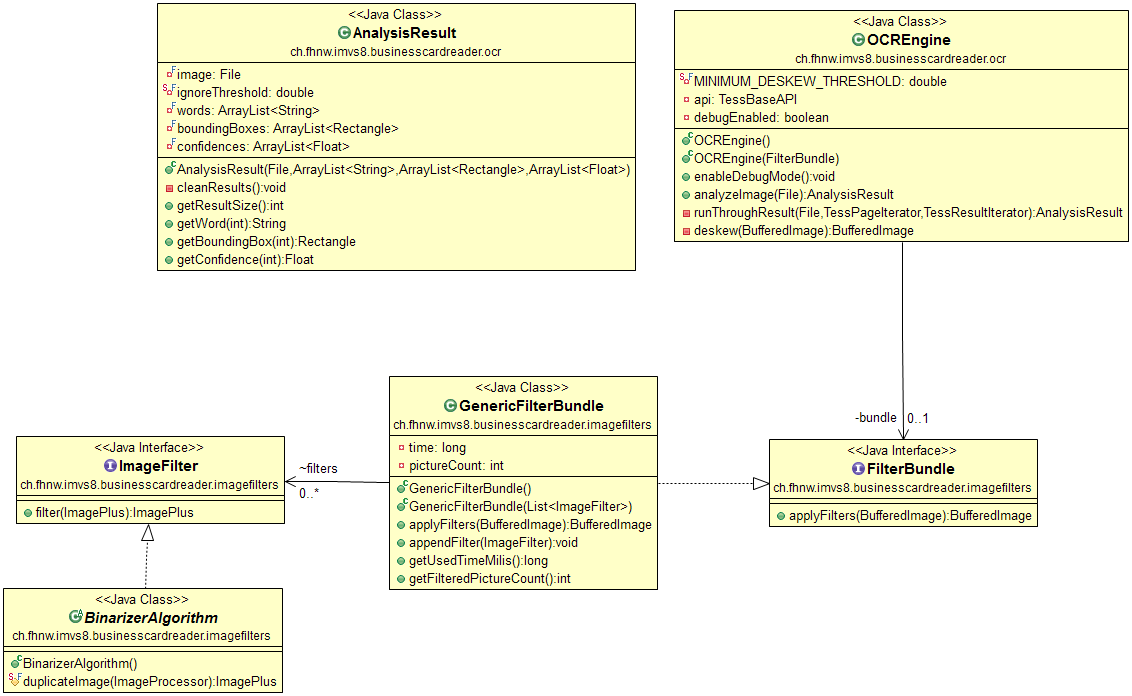
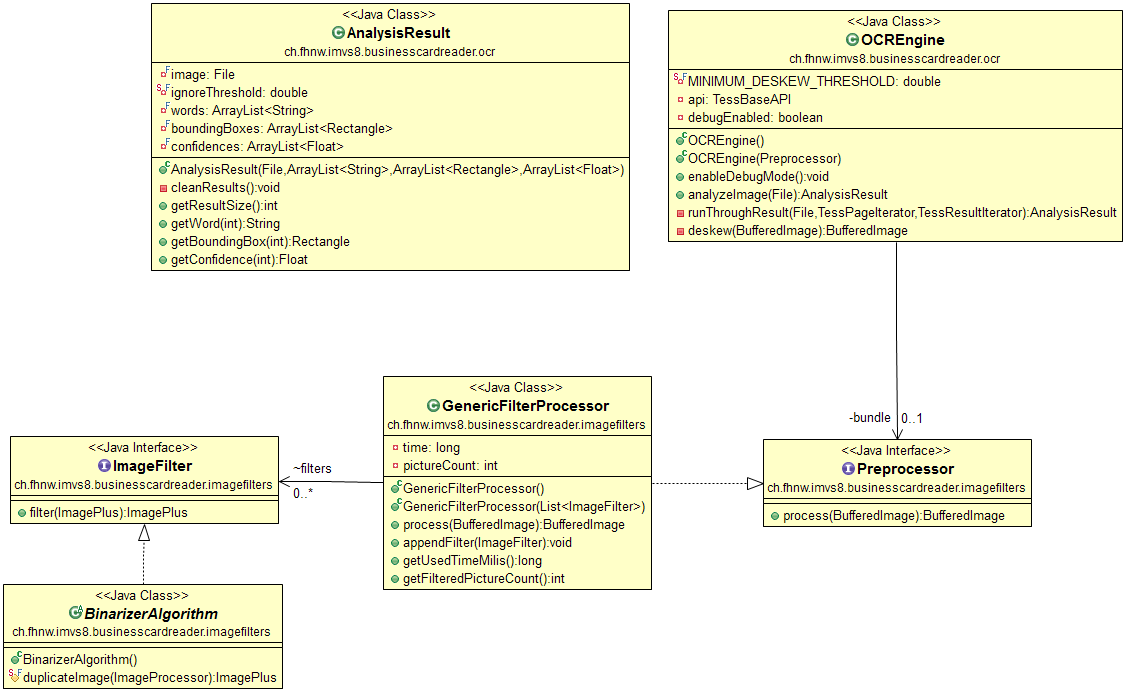
even more refactoring

diff --git a/TesstTest2/src/ch/fhnw/imvs8/businesscardreader/imagefilters/RGBProcessor.java b/TesstTest2/src/ch/fhnw/imvs8/businesscardreader/imagefilters/RGBProcessor.java
@@ -15,10 +15,10 @@ import java.util.List;
  * @author Jon
  * 
  */
-public class RGBFilterBundle implements Preprocessor {
+public class RGBProcessor implements Preprocessor {
 	private List<ImageFilter> channelFilters;
 
-	public RGBFilterBundle() {
+	public RGBProcessor() {
 		channelFilters = new ArrayList<>(2);
 		// filters.add(new LightFilter());
 		channelFilters.add(new AutoBinaryFilter());

diff --git a/TesstTest2/test/ch/fhnw/imvs8/businesscardreader/imagefilters/RGBFilterTest.java b/TesstTest2/test/ch/fhnw/imvs8/businesscardreader/imagefilters/RGBFilterTest.java
@@ -25,7 +25,7 @@ public class RGBFilterTest {
 			BufferedImage image = ImageIO.read(new FileInputStream(new File(
 					colorImg)));
 
-			RGBFilterBundle bundle = new RGBFilterBundle();
+			RGBProcessor bundle = new RGBProcessor();
 			BufferedImage out = bundle.process(image);
 			if (ImageIO.write(out, "png", new File("RGBFilterTest.png"))) {
 
